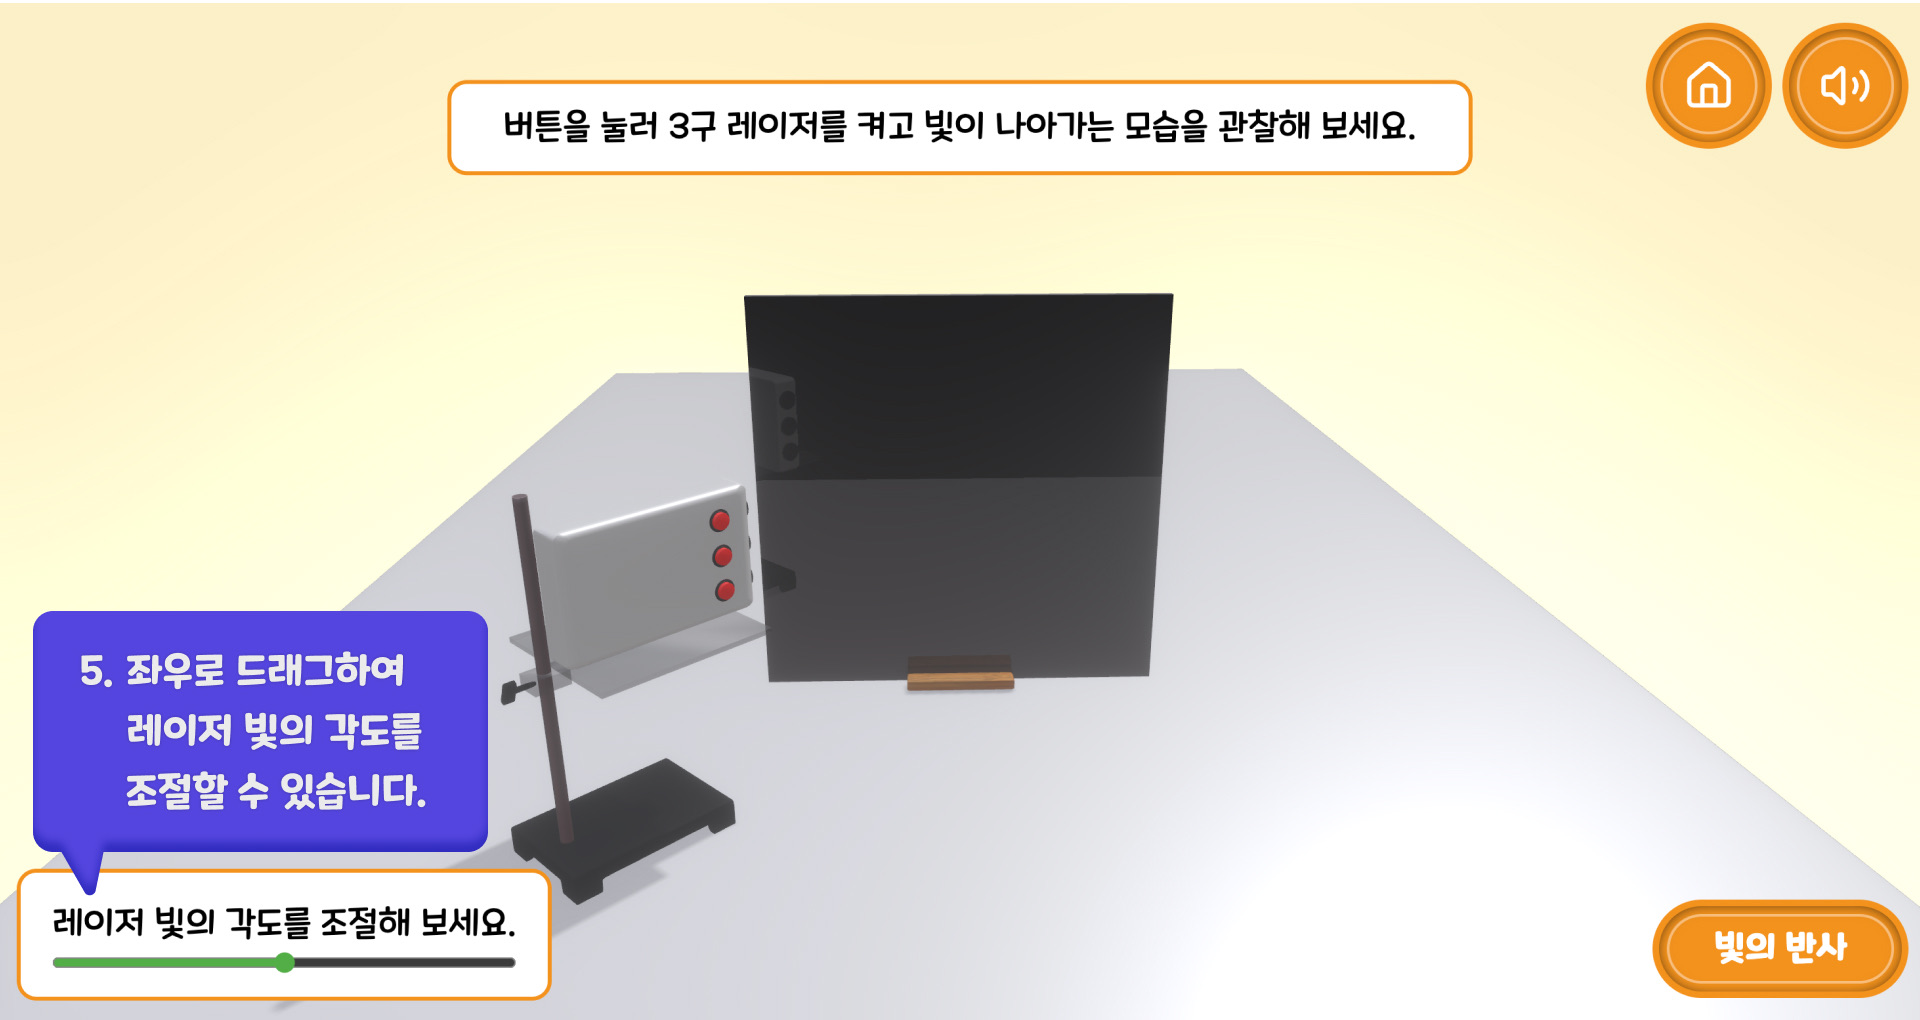
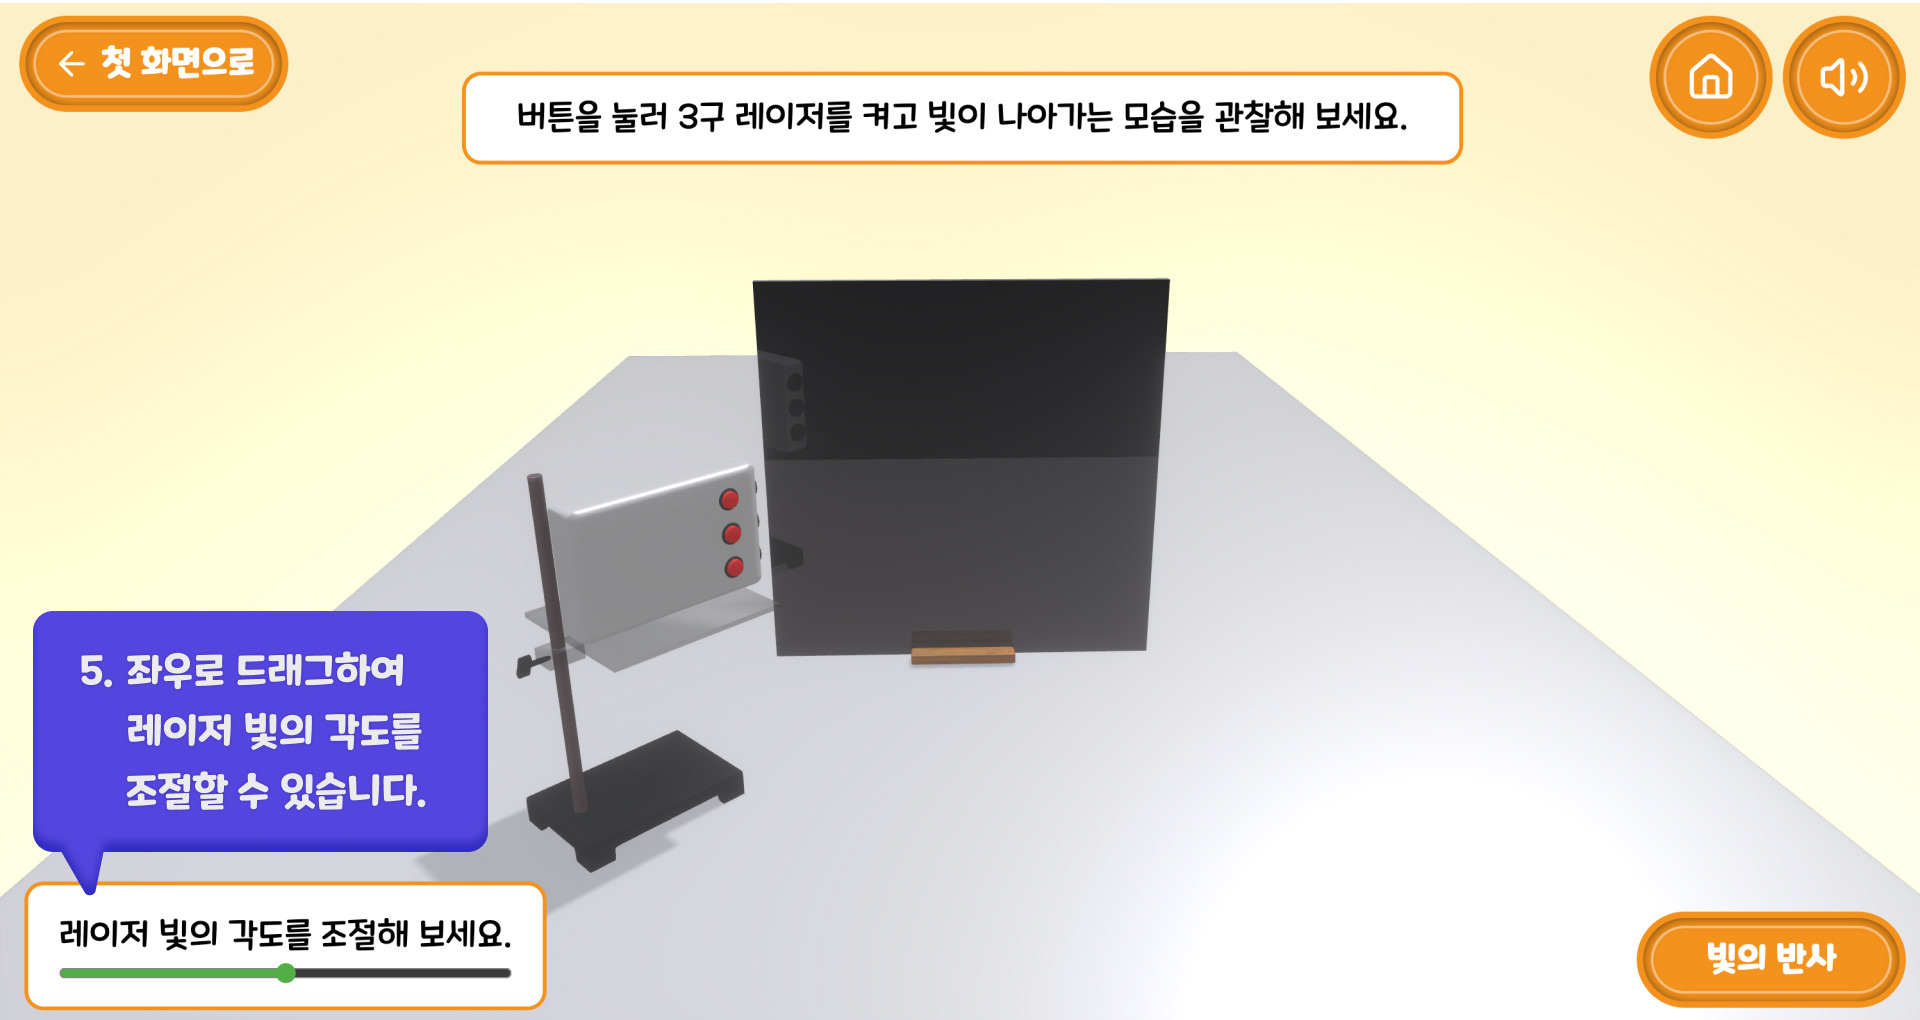
[update] 5-1-2  activity guide modal

diff --git a/client/src/pages/5-1-2.tsx b/client/src/pages/5-1-2.tsx
@@ -299,7 +299,15 @@ function ExplanationBox({ isVisible, mode, lensType }: { isVisible: boolean; mod
 
   return (
     <div className='absolute left-1/2 font-light top-1/2 -translate-x-1/2 -translate-y-1/2'>
-      <CrayonTextBox textcolor='#333' color='#F3921C' bg='#F3921C' fontSize='20pt' width='520px' animated={false} padding={40} paddingY={24}>
+      <CrayonTextBox
+        textcolor='#333'
+        color='#F3921C'
+        bg='#F3921C'
+        fontSize='20pt'
+        width='520px'
+        animated={false}
+        padding={40}
+        paddingY={24}>
         {descriptions[mode]}
       </CrayonTextBox>
     </div>
@@ -502,7 +510,7 @@ export default function Page() {
         icon={'home'}
         position='absolute'
         iconPosition='left'
-        onClick={handleBackToModeSelection}
+        onClick={handleBackToIntro}
         width={96}
         height={96}
         color={lightTheme.start.border}
@@ -531,6 +539,30 @@ export default function Page() {
         iconSize={40}
         innerCircleVisible={true}
       />
+
+      <AnimatePresence>
+        {!showIntro && (
+          <motion.div
+            initial={{ opacity: 0 }}
+            animate={{ opacity: 1 }}
+            exit={{ opacity: 0 }}
+            transition={{ duration: 0.5, ease: 'easeInOut' }}
+            className='absolute top-4 left-4 z-10 w-fit h-fit'>
+            <CrayonTextButton
+              ariaLabel='모드 선택 화면으로 돌아가기'
+              text='첫 화면으로'
+              icon='arrow-left'
+              iconPosition='left'
+              iconSize={30}
+              bg={lightTheme.start.bg}
+              color={lightTheme.start.border}
+              textcolor='#FFFFFF'
+              onClick={handleBackToModeSelection}
+              innerCircleVisible={false}
+            />
+          </motion.div>
+        )}
+      </AnimatePresence>
 
       <div className='flex-1'>
         <Scene shadows camera={{ position: [0, 0, 20], fov: 50 }}>
